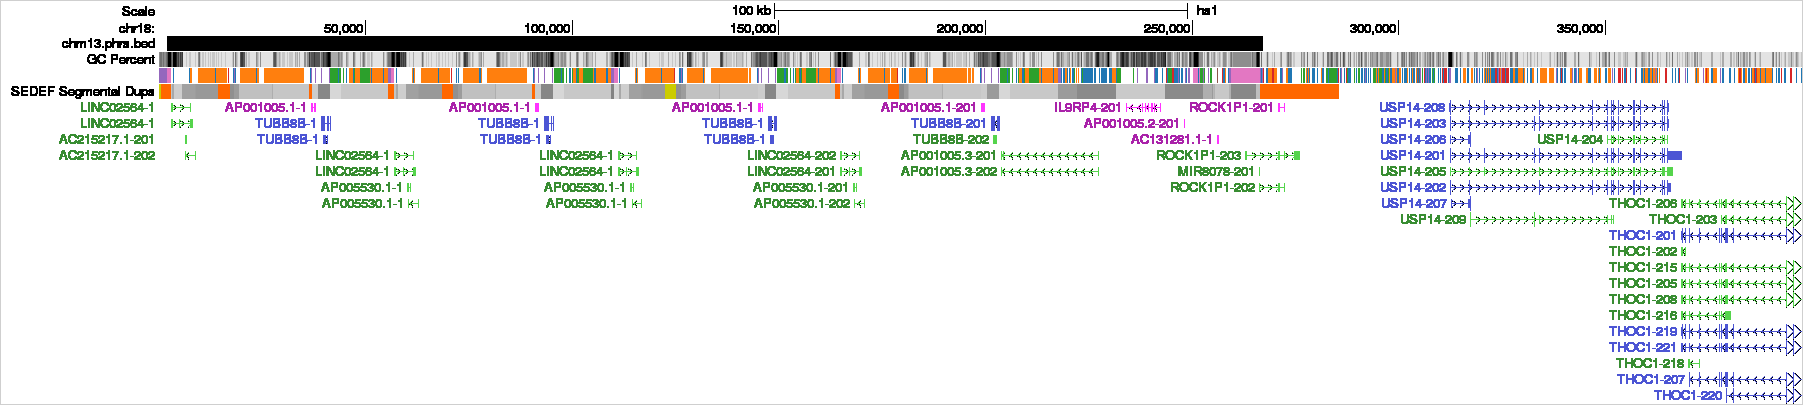
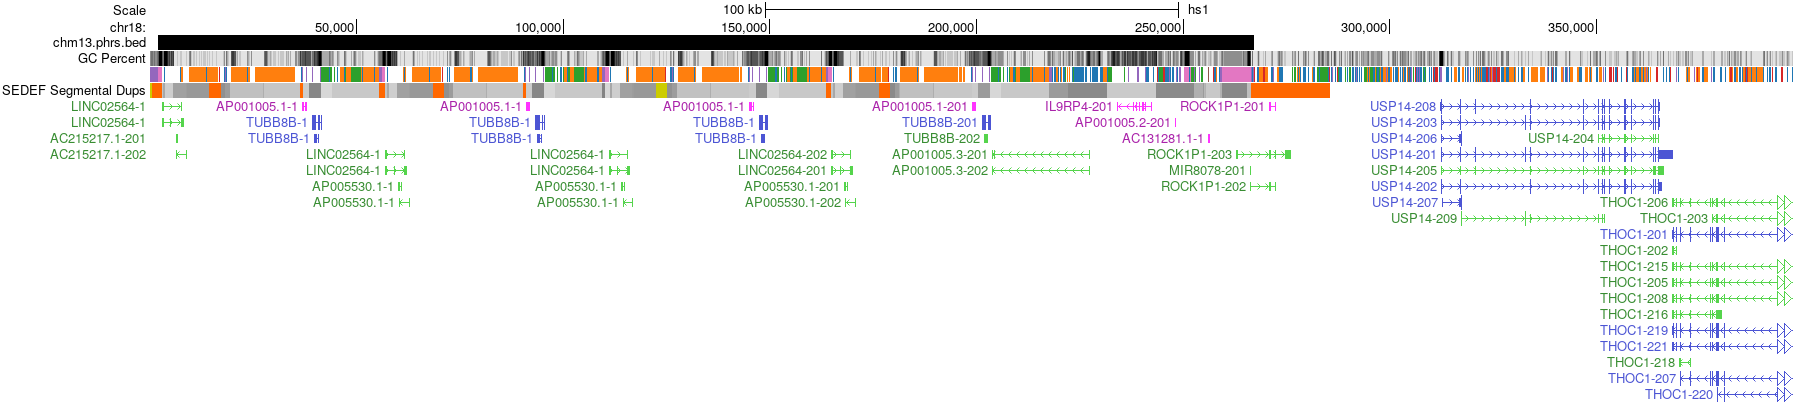
Fig. 3: back to the May UCSC panels, only the cut S of 'SEDEF Segmental Dups' completed from the S of 'Scale'; drop the heavier new UCSC render

diff --git a/submission/scripts/figures/fix_fig3_sedef_label.py b/submission/scripts/figures/fix_fig3_sedef_label.py
@@ -1,0 +1,28 @@
+#!/usr/bin/env python3
+"""Fig. 3 panels: the May 2026 UCSC panels with the cut side label "EDEF Segmental Dups" completed to "SEDEF Segmental Dups".
+
+usage (repo root): python3 submission/scripts/figures/fix_fig3_sedef_label.py
+UCSC drew the 20-character label in a 20-character column, so the first "S" falls left of the image (only its right 4 columns
+remain). A new UCSC render draws the text heavier (2026-11-27), so we keep the May pixels and change only that letter:
+in: slides/chm13-phr-ucsc-browser/_assets/ucsc/panels/<window>.png (May render, 1 px #cfcfcf border; the paper used them
+  without the border); we drop the border, add M = 6 white columns on the left, and copy the "S" of the side label "Scale"
+  (same image, same font and size: columns 107-115, rows 5-14) to the "S" of "SEDEF" (rows 85-94, 111 columns to the left).
+Check: the 4 visible columns of the cut "S" equal the matching columns of the "Scale" S, pixel for pixel, in every panel.
+out: submission/fig/MainFigures/<panel>.png (no border, as before); log on stderr.
+"""
+import sys
+from PIL import Image
+M, DX, DY = 6, 111, 80
+P = [("Fig3a_C1_chr4q", "chr4q_chr4_193304946_193574945"), ("Fig3a_C1_chr10q", "chr10q_chr10_134488135_134758134"),
+     ("Fig3b_C2_chr10p", "chr10p_chr10_1_105002"), ("Fig3b_C2_chr18p", "chr18p_chr18_1_397502"),
+     ("Fig3c_C11_chr5q", "chr5q_chr5_181752940_182045439"), ("Fig3c_C11_chr6q", "chr6q_chr6_171909129_172126628")]
+for name, win in P:
+    a = Image.open(f"slides/chm13-phr-ucsc-browser/_assets/ucsc/panels/{win}.png").convert("RGB")
+    im = a.crop((1, 1, a.width - 1, a.height - 1))
+    bad = [(x, y) for x in range(112, 116) for y in range(5, 15) if im.getpixel((x, y)) != im.getpixel((x - DX, y + DY))]
+    if bad: sys.exit(f"ERROR {name}: visible part of the cut S differs from the Scale S at {bad[:5]}")
+    out = Image.new("RGB", (im.width + M, im.height), (255, 255, 255)); out.paste(im, (M, 0))
+    for x in range(107, 116):
+        for y in range(5, 15): out.putpixel((x - DX + M, y + DY), im.getpixel((x, y)))
+    out.save(f"submission/fig/MainFigures/{name}.png")
+    print(f"{name}: May {a.width}x{a.height} -> without border {im.width}x{im.height} -> {out.width}x{out.height}, S completed", file=sys.stderr)

diff --git a/response/POINT_BY_POINT.md b/response/POINT_BY_POINT.md
@@ -49,7 +49,7 @@ Status checked against `submission/paper.tex` at `85c1840` on 2026-11-20, rows R
 | R3-M5 | somatic vs meiotic | stage test done (R1-M7) | limitation at 543 | check wording |
 | R3-M6 | thresholds behind 41 of 48 arms | done (Lane results: 41 arms at fail 1-4 and flank 25-400 kb) | written (179bc78), Methods PHR detection | done |
 | R3-M7 / R3-M8 | order vs similarity, call candidates consistently | done | ED3, retraction | done |
-| R3 minors | Fig. 3 crop, define NOR | done. NOR spelled out (bb79ed7). Fig. 3: the UCSC side label "SEDEF Segmental Dups" was cut to "EDEF Segmental Dups" by UCSC's 20-character label column; panels re-rendered with the May configuration and a 22-character column (render_fig3_ucsc.py): same heights and data width, PHR/GC/RepeatMasker/SEDEF rows pixel-identical to May, text drawn slightly heavier by the current UCSC | letter: the cut was a browser label, now fixed |
+| R3 minors | Fig. 3 crop, define NOR | done. NOR spelled out (bb79ed7). Fig. 3: UCSC cut the side label "SEDEF Segmental Dups" to "EDEF Segmental Dups" (20-character label column); we kept the May panels and completed the "S" from the "S" of "Scale" in the same image (fix_fig3_sedef_label.py); a new UCSC render (7e9a64d) drew all text heavier and was dropped | letter: the cut was a browser label, now fixed |
 | R5-L86 | window-size sensitivity | done (text) | the PHR call already uses 5 kb windows in a complete all-against-all of the flanks (Methods); 100 kb windows are only the Fig. 1A survey; Results now says "5 kb" | response: no rerun needed, stopping-rule and scan-length sensitivity already in Methods |
 | R5-L152 | GO stability across assemblies | done | DUX4/DUX4L copies per haplotype from the Liftoff annotation: 4q median 25 (2-82, 357), 10q 20 (1-77, 355), CHM13 34 and 34; cites Lucas 2026; the ZGA terms rest on DUX4 copies alone (`scripts/cladistics/dux4_copies_per_window.tsv`) | paper.tex C1 paragraph and enrichment paragraph |
 | R5-L189 | Hi-C, Pore-C, CiFi cell types | done | Methods, first lines of "Hi-C, Pore-C and CiFi pipeline": HG002 Hi-C (BioSample SAMN03283347, B-lymphocyte, Coriell) and CiFi (SAMEA117757461, HG002 LCL) checked in the metadata, Pore-C taken as the same HG002 line; HPRC samples B-lymphocyte (230/234 in the HPRC sample table); CHM13hTERT; mouse spermatocytes | cell type per dataset |

diff --git a/submission/scripts/figures/README.md b/submission/scripts/figures/README.md
@@ -70,17 +70,10 @@ cp /home/guarracino/Dropbox/git/HPRCv2/p_interchrom_karyogram_count_rainbow_inse
 ## VENDORED — copied, not computed
 
 ```bash
-# Fig3 — UCSC hs1 browser screenshots. Since 2026-11-27 the six panels come from
-#   python3 submission/scripts/figures/render_fig3_ucsc.py OUT_DIR   (internet; new UCSC session, May 2026 track
-#   configuration, label column 22 characters so that "SEDEF Segmental Dups" is not cut), then cp OUT_DIR/Fig3*.png $M/.
-# The May 2026 panels below came from slides/chm13-phr-ucsc-browser/_scripts/render_ucsc_browser_suite.py --force.
-P=slides/chm13-phr-ucsc-browser/_assets/ucsc/panels; M=submission/fig/MainFigures
-cp $P/chr4q_chr4_193304946_193574945.png   $M/Fig3a_C1_chr4q.png
-cp $P/chr10q_chr10_134488135_134758134.png $M/Fig3a_C1_chr10q.png
-cp $P/chr10p_chr10_1_105002.png            $M/Fig3b_C2_chr10p.png
-cp $P/chr18p_chr18_1_397502.png            $M/Fig3b_C2_chr18p.png
-cp $P/chr5q_chr5_181752940_182045439.png   $M/Fig3c_C11_chr5q.png
-cp $P/chr6q_chr6_171909129_172126628.png   $M/Fig3c_C11_chr6q.png
+# Fig3 — the May 2026 UCSC hs1 panels (slides/chm13-phr-ucsc-browser/_assets/ucsc/panels/, from
+#   slides/chm13-phr-ucsc-browser/_scripts/render_ucsc_browser_suite.py) without their 1 px border, with the cut "S" of
+#   "SEDEF Segmental Dups" completed from the "S" of "Scale" in the same image (6 white columns added on the left):
+python3 submission/scripts/figures/fix_fig3_sedef_label.py
 
 # Fig5 — pedigree untangle (generator is off-repo on moosefs; only the PDF is here)
 cp end-to-end-report/pedigree-plots/washu/PAN027.maternal_hap1_from_PAN010_mother.untangle.pdf \
